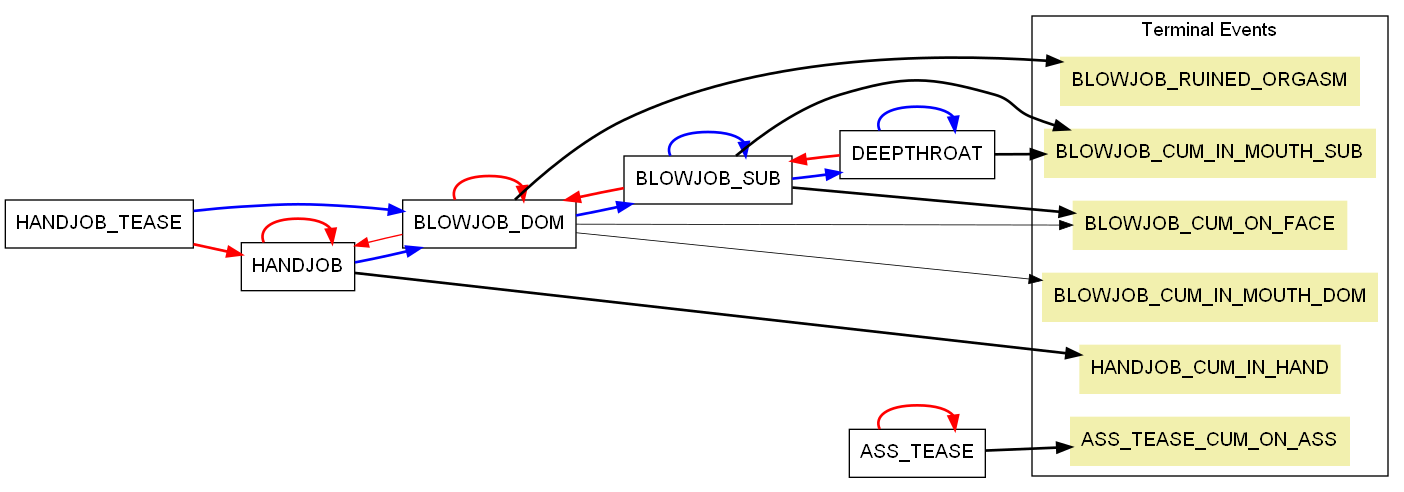
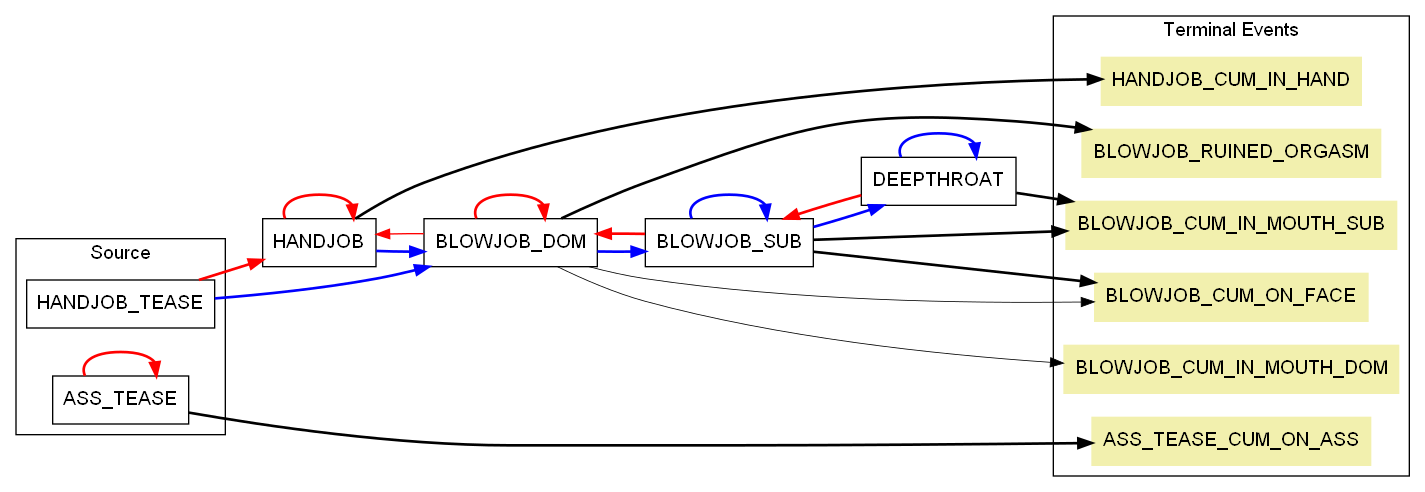
Factor out sex source event extraction

diff --git a/generate_events.py b/generate_events.py
@@ -671,6 +671,20 @@ def link_events_and_options(events: EventMap):
     return options
 
 
+def get_source_sex_events(events: EventMap):
+    source_events = []
+    for e in events.all():
+        is_source = True
+        for o in e.incoming_options:
+            ie = o.from_event
+            if ie != e and not isinstance(ie.id, EventsFirst):
+                is_source = False
+                break
+        if is_source:
+            source_events.append(e)
+    return source_events
+
+
 # TODO validate events (no disconnected events; have at least some in-edge or out-edge)
 def generate_strings(events, options):
     # generate localizations
@@ -693,16 +707,7 @@ def generate_strings(events, options):
     # organize effects into effects for randomly selecting them initially
     b = BlockRoot()
     # find sex events that have at most just itself as the incoming event
-    source_events = []
-    for e in events.all():
-        is_source = True
-        for o in e.incoming_options:
-            ie = o.from_event
-            if ie != e and not isinstance(ie.id, EventsFirst):
-                is_source = False
-                break
-        if is_source:
-            source_events.append(e)
+    source_events = get_source_sex_events(es)
     with Block(b, SELECT_START_AFFAIRS_EFFECT):
         with Block(b, RANDOM_LIST):
             for e in source_events:
@@ -773,40 +778,64 @@ def export_dot_graphviz(events, horizontal=True, censored=False):
         if horizontal:
             f.write("rankdir=LR;\n")
         f.write("fontname=Helvetica;\n")
+        f.write("concentrate=true")
 
-        # sex events
+        source_sex_events = get_source_sex_events(events)
+        cum_events = []
+        regular_sex_events = []
         for event in events.all():
-            if isinstance(event.id, EventsSex):
-                f.write(event.id.name)
-                f.write(f"[fontname=Helvetica, shape=box, "
-                        f"label={event.id.value if censored else event.id.name}]")
+            if event in source_sex_events:
+                continue
+            if isinstance(event.id, EventsCum):
+                cum_events.append(event)
+            else:
+                regular_sex_events.append(event)
+        events_with_options = source_sex_events + regular_sex_events
+
+        # regular sex events
+        for event in regular_sex_events:
+            f.write(event.id.name)
+            f.write(f"[fontname=Helvetica, shape=box, "
+                    f"label={event.id.value if censored else event.id.name}]")
+            f.write(";\n")
+
+        for event in events_with_options:
+            for option in event.options:
+                # terminal option
+                if option.next_id is None:
+                    continue
+                f.write(f"{event.id.name} -> {option.next_id.name}")
+                attr = []
+                if option.category == OptionCategory.DOM:
+                    attr.append("color=red")
+                elif option.category == OptionCategory.SUB:
+                    attr.append("color=blue")
+
+                attr.append(f"penwidth={option.weight / 5}")
+
+                if len(attr) > 0:
+                    attr = "[" + ",".join(attr) + "]"
+                    f.write(attr)
                 f.write(";\n")
-                for option in event.options:
-                    # terminal option
-                    if option.next_id is None:
-                        continue
-                    f.write(f"{event.id.name} -> {option.next_id.name}")
-                    attr = []
-                    if option.category == OptionCategory.DOM:
-                        attr.append("color=red")
-                    elif option.category == OptionCategory.SUB:
-                        attr.append("color=blue")
 
-                    attr.append(f"penwidth={option.weight / 5}")
-
-                    if len(attr) > 0:
-                        attr = "[" + ",".join(attr) + "]"
-                        f.write(attr)
-                    f.write(";\n")
+        # cum events (sink nodes)
+        f.write("subgraph cluster_sex_source {\n label=\"Source\";\n rank=same;\n")
+        for event in source_sex_events:
+            f.write(event.id.name)
+            f.write(
+                f"[fontname=Helvetica, shape=box, " 
+                f"label={event.id.value if censored else event.id.name}]")
+            f.write(";\n")
+        f.write("}\n")
 
         # cum events (sink nodes)
         f.write("subgraph cluster_cum {\n label=\"Terminal Events\";\n rank=sink;\n")
-        for event in events.all():
-            if isinstance(event.id, EventsCum):
-                f.write(event.id.name)
-                f.write(
-                    f"[fontname=Helvetica, shape=box, style=filled, rank=sink, color=\"#f2f0ae\", "
-                    f"label={event.id.value if censored else event.id.name}]")
+        for event in cum_events:
+            f.write(event.id.name)
+            f.write(
+                f"[fontname=Helvetica, shape=box, style=filled, rank=sink, color=\"#f2f0ae\", "
+                f"label={event.id.value if censored else event.id.name}]")
+            f.write(";\n")
         f.write("}\n")
         f.write("}\n")
 
